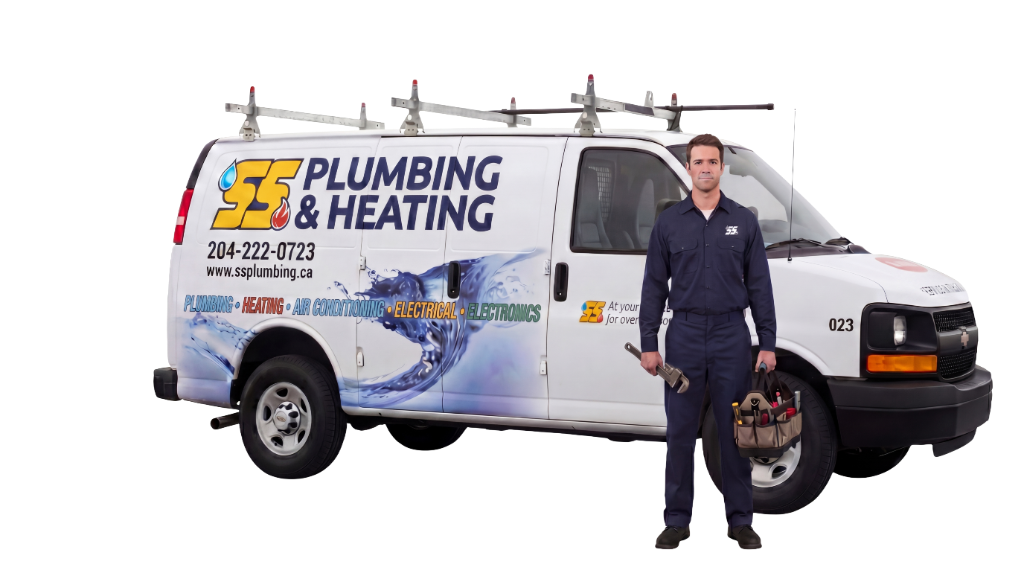
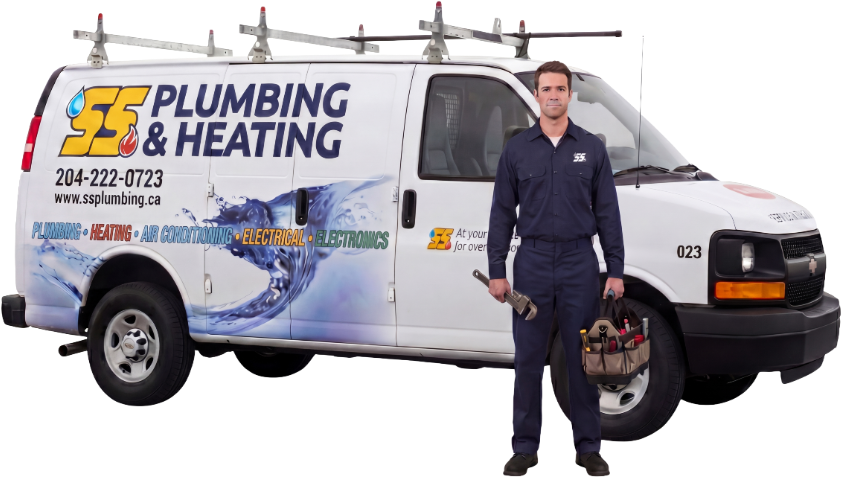
Crop transparent padding from van image and center status indicator above it

diff --git a/styles.css b/styles.css
@@ -926,7 +926,7 @@ h1, h2, h3, h4, h5, h6 {
 .map-status-widget {
     position: absolute;
     bottom: -15px;
-    right: -380px;
+    right: -460px;
     display: flex;
     flex-direction: column;
     align-items: center;
@@ -1000,7 +1000,7 @@ h1, h2, h3, h4, h5, h6 {
 /* responsive behaviors */
 @media (min-width: 1201px) and (max-width: 1400px) {
     .map-status-widget {
-        right: -240px;
+        right: -305px;
     }
     .status-van-img {
         width: 440px;
@@ -1009,7 +1009,7 @@ h1, h2, h3, h4, h5, h6 {
 
 @media (max-width: 1200px) {
     .map-status-widget {
-        right: -300px;
+        right: -370px;
     }
     .status-van-img {
         width: 480px;

diff --git a/heating.html b/heating.html
@@ -6,7 +6,7 @@
     <meta name="viewport" content="width=device-width, initial-scale=1.0">
     <title>Heating & A/C Services | SS Plumbing</title>
     <link href="https://fonts.googleapis.com/css2?family=Outfit:wght@300;400;600;800;900&display=swap" rel="stylesheet">
-    <link rel="stylesheet" href="styles.css?v=84">
+    <link rel="stylesheet" href="styles.css?v=85">
     <script src="https://unpkg.com/lucide@latest"></script>
 </head>
 <body>

diff --git a/about.html b/about.html
@@ -11,7 +11,7 @@
     <link rel="preconnect" href="https://fonts.gstatic.com" crossorigin>
     <link href="https://fonts.googleapis.com/css2?family=Outfit:wght@300;400;600;800;900&display=swap" rel="stylesheet">
     <!-- Styles -->
-    <link rel="stylesheet" href="styles.css?v=84">
+    <link rel="stylesheet" href="styles.css?v=85">
     <!-- Lucide Icons -->
     <script src="https://unpkg.com/lucide@latest"></script>
 </head>

diff --git a/careers.html b/careers.html
@@ -11,7 +11,7 @@
     <link rel="preconnect" href="https://fonts.gstatic.com" crossorigin>
     <link href="https://fonts.googleapis.com/css2?family=Outfit:wght@300;400;600;800;900&display=swap" rel="stylesheet">
     <!-- Styles -->
-    <link rel="stylesheet" href="styles.css?v=84">
+    <link rel="stylesheet" href="styles.css?v=85">
     <!-- Lucide Icons -->
     <script src="https://unpkg.com/lucide@latest"></script>
 </head>

diff --git a/certifications.html b/certifications.html
@@ -11,7 +11,7 @@
     <link rel="preconnect" href="https://fonts.gstatic.com" crossorigin>
     <link href="https://fonts.googleapis.com/css2?family=Outfit:wght@300;400;600;800;900&display=swap" rel="stylesheet">
     <!-- Styles -->
-    <link rel="stylesheet" href="styles.css?v=84">
+    <link rel="stylesheet" href="styles.css?v=85">
     <!-- Lucide Icons -->
     <script src="https://unpkg.com/lucide@latest"></script>
 </head>

diff --git a/contact.html b/contact.html
@@ -11,7 +11,7 @@
     <link rel="preconnect" href="https://fonts.gstatic.com" crossorigin>
     <link href="https://fonts.googleapis.com/css2?family=Outfit:wght@300;400;600;800;900&display=swap" rel="stylesheet">
     <!-- Styles -->
-    <link rel="stylesheet" href="styles.css?v=84">
+    <link rel="stylesheet" href="styles.css?v=85">
     <!-- Lucide Icons -->
     <script src="https://unpkg.com/lucide@latest"></script>
 </head>

diff --git a/electrical.html b/electrical.html
@@ -11,7 +11,7 @@
     <link rel="preconnect" href="https://fonts.gstatic.com" crossorigin>
     <link href="https://fonts.googleapis.com/css2?family=Outfit:wght@300;400;600;800;900&display=swap" rel="stylesheet">
     <!-- Styles -->
-    <link rel="stylesheet" href="styles.css?v=84">
+    <link rel="stylesheet" href="styles.css?v=85">
     <!-- Lucide Icons -->
     <script src="https://unpkg.com/lucide@latest"></script>
 </head>

diff --git a/heating-cooling.html b/heating-cooling.html
@@ -11,7 +11,7 @@
     <link rel="preconnect" href="https://fonts.gstatic.com" crossorigin>
     <link href="https://fonts.googleapis.com/css2?family=Outfit:wght@300;400;600;800;900&display=swap" rel="stylesheet">
     <!-- Styles -->
-    <link rel="stylesheet" href="styles.css?v=84">
+    <link rel="stylesheet" href="styles.css?v=85">
     <!-- Lucide Icons -->
     <script src="https://unpkg.com/lucide@latest"></script>
 </head>

diff --git a/index.html b/index.html
@@ -25,7 +25,7 @@
     <link rel="preconnect" href="https://fonts.gstatic.com" crossorigin>
     <link href="https://fonts.googleapis.com/css2?family=Outfit:wght@300;400;600;800;900&display=swap" rel="stylesheet">
     <!-- Styles -->
-    <link rel="stylesheet" href="styles.css?v=84">
+    <link rel="stylesheet" href="styles.css?v=85">
     <!-- Lucide Icons -->
     <script src="https://unpkg.com/lucide@latest"></script>
 </head>

diff --git a/our-work.html b/our-work.html
@@ -11,7 +11,7 @@
     <link rel="preconnect" href="https://fonts.gstatic.com" crossorigin>
     <link href="https://fonts.googleapis.com/css2?family=Outfit:wght@300;400;600;800;900&display=swap" rel="stylesheet">
     <!-- Styles -->
-    <link rel="stylesheet" href="styles.css?v=84">
+    <link rel="stylesheet" href="styles.css?v=85">
     <!-- Lucide Icons -->
     <script src="https://unpkg.com/lucide@latest"></script>
 </head>

diff --git a/plumbing.html b/plumbing.html
@@ -11,7 +11,7 @@
     <link rel="preconnect" href="https://fonts.gstatic.com" crossorigin>
     <link href="https://fonts.googleapis.com/css2?family=Outfit:wght@300;400;600;800;900&display=swap" rel="stylesheet">
     <!-- Styles -->
-    <link rel="stylesheet" href="styles.css?v=84">
+    <link rel="stylesheet" href="styles.css?v=85">
     <!-- Lucide Icons -->
     <script src="https://unpkg.com/lucide@latest"></script>
 </head>

diff --git a/service-area.html b/service-area.html
@@ -11,7 +11,7 @@
     <link rel="preconnect" href="https://fonts.gstatic.com" crossorigin>
     <link href="https://fonts.googleapis.com/css2?family=Outfit:wght@300;400;600;800;900&display=swap" rel="stylesheet">
     <!-- Styles -->
-    <link rel="stylesheet" href="styles.css?v=84">
+    <link rel="stylesheet" href="styles.css?v=85">
     <!-- Lucide Icons -->
     <script src="https://unpkg.com/lucide@latest"></script>
 </head>
